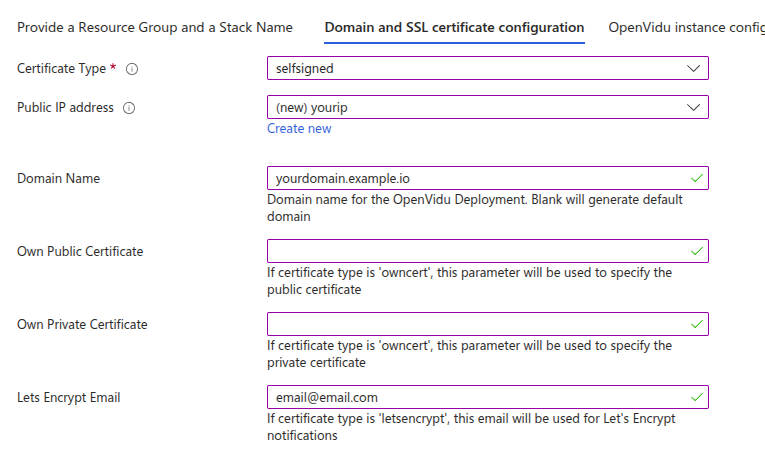
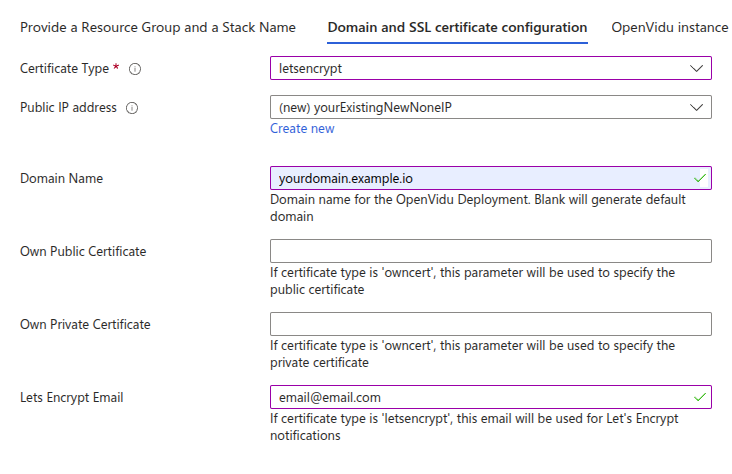
docs-azure: some changes to the azure doc to be more consistant

diff --git a/docs/docs/self-hosting/elastic/azure/install.md b/docs/docs/self-hosting/elastic/azure/install.md
@@ -6,6 +6,11 @@ description: Learn how to deploy OpenVidu Elastic on Azure using Template specs 
 # OpenVidu Elastic Installation: Azure
 
 !!! info
+
+    Azure is Expermiental in version 3.2.0 of OpenVidu
+
+
+!!! info
     
     OpenVidu Elastic is part of **OpenVidu <span class="openvidu-tag openvidu-pro-tag">PRO</span>**. Before deploying, you need to [create an OpenVidu account](/account/){:target=_blank} to get your license key.
     There's a 15-day free trial waiting for you!
@@ -31,9 +36,23 @@ To import the template into Azure you just need to click the button below and yo
     - WebRTC traffic (SRTP/SCTP/STUN/TURN) is routed directly to the Media Nodes.
     - A Scaling Set of Media Nodes is created to scale the number of Media Nodes based on the system load.
 
+We use a strategy to shut down gracefully the media nodes: 
+
+=== "Strategy used"
+
+    The instances in the scale set are protected to prevent their shutdown when they are started. That prevents them from shutting down when the shutdown event arrives but that event can be captured and a custom action executed. That custom action determines the instance that has to terminate and executes the appropriate commands in the LiveKit services to not receive any more jobs. When all jobs on the instance identified to be shutdown are finished, then it autoshutdown with a command that kills the instance.    
+
 ## Template Parameters
 
-Depending on your needs, you need to fill in the following parameters:
+Depending on your needs, you need to fill in the following parameters.
+
+!!! warning
+
+    The resource group may not be the same as a previous one, the deployment can fail if is the same, the only case you want it to be new is when using an existing IP. Fill the parameter **Stack Name** with the name you want for the stack (it will be used to create the names of the resources). Select the **Region** that you want or the region where the resource group is located (it will be autoselected).   
+
+    <figure markdown>
+    ![Azure Instance configuration](../../../../assets/images/self-hosting/shared/azure-stack-name-region.png){ .svg-img .dark-img }
+    </figure>
 
 --8<-- "shared/self-hosting/azure-ssl-domain.md"
 
@@ -67,7 +86,7 @@ You need to specify some properties for the Azure instances that will be created
     ![Azure Instance configuration](../../../../assets/images/self-hosting/elastic/azure/azure-instance-config.png){ .svg-img .dark-img }
     </figure>
 
-    Simply select the type of instance you want on the master nodes at **Master Node Instance Type** and select the type of instance you want on the media nodes at **Media Node Instance Type**, modify the username that will be the one standard in the instance at **Admin Username**, then select the SSH key you've created previously in **Admin Ssh Key**, or you can create a new one in the same drop down, to be able to make ssh to the instance.   
+    Simply select the type of instance you want on the master nodes at **Master Node Instance Type** and select the type of instance you want on the media nodes at **Media Node Instance Type**, fill in the parameter **Admin Username** that will be set as admin username in the instance, then select the SSH key you've created previously in **SSH public key source**, or you can create a new one in the same drop down, to be able to make ssh to the instance.   
  
 
 ### Media Nodes Scaling Set Configuration
@@ -88,17 +107,18 @@ The number of Media Nodes can scale up based on the system load. You can configu
 
 ### Scale In
 
-Azure has a restriction with the scale in, when it is determined that a instance is surplus, it can only wait at most 15 minutes for graceful shutdown. But that poses a problem when instance sessions can last longer. To avoid unexpectedly shutting down a instance's sessions, an indirect strategy has been implemented to get instances to not terminate until they have finished all their sessions.
+Azure has a restriction with the scale in, when it is determined that a instance is surplus, it can only wait at most 15 minutes for graceful shutdown. But that poses a problem when instance sessions can last longer. To avoid unexpectedly shutting down a instance's sessions, an indirect strategy has been implemented to get instances to not terminate until they have finished all their sessions.   
 
-=== "Strategy used"
+Due to the limitations of azure, this strategy has the disadvantage that it can take up to 5 minutes from the time a instance is detected to be shutdown until the shutdown process is gracefully initiated.
 
-    The instances in the autoscaling group are protected to prevent their shutdown when they are started. That prevents them from shutting down when the shutdown event arrives but that event can be captured and a custom action executed. That custom action determines the instance that has to terminate and executes the appropriate commands in the LiveKit services to not receive any more jobs. When all jobs on the instance identified to be shutdown are finished, then it autoshutdown with a command that kills the instance.   
-    Due to the limitations of azure, this strategy has the disadvantage that it can take up to 5 minutes from the time a instance is detected to be shutdown until the shutdown process is gracefully initiated.
+=== "Automation Account Configuration"
 
-You will need to fill the next parameter in order to be able to create the automation account that contains the runbook that is going to be executed when a scale in event comes in.   
-<figure markdown>
-![Automation account name](../../../../assets/images/self-hosting/shared/azure-aacc-scalein.png){ .svg-img .dark-img }
-</figure>
+    You will need to fill the next parameter in order to be able to create the automation account that contains the runbook that is going to be executed when a scale in event comes in.   
+    You can choose the name that you want and it will be used to create a new automation account with that name, the only restriction that the name has is being an unique name for all the automation accounts that may be in the resource group that you are deploying. Leave it blank to set an autogenerated name.   
+    This resource cannot be reused between deployments.   
+    <figure markdown>
+    ![Automation account name](../../../../assets/images/self-hosting/shared/azure-aacc-scalein.png){ .svg-img .dark-img }
+    </figure>
 
 --8<-- "shared/self-hosting/azure-storageaccount.md"
 
@@ -106,17 +126,14 @@ You will need to fill the next parameter in order to be able to create the autom
 
 ## Deploying the Stack
 
-!!! warning
-
-    Don't forget about changing the resource group where all the previous resources may be created (in case you use an existing public IP) and don't forget to fill the parameter **Stack Name** with the name you want for the stack (it will be used to create the names of the resources).
-
-When you are ready with your Template parameters, just click on _"Next"_, then it will go through some validations, and if everything is correct, click on _"Create"_, then it will start deploying and you will have to wait the time that takes to install Openvidu, it takes about 7 to 12 minutes.
+When you are ready with your Template parameters, just click on _"Next"_, then it will go through some validations, and if everything is correct, click on _"Create"_, then it will start deploying and you will have to wait the time that takes to install Openvidu, it takes about 7 to 12 minutes.   
 
 !!! warning
 
-    In case of fail, it might be that some role failed to create, in this case redeploy in a new resource group and change the **Stack Name**, if you understand more try to remove that role in the IAM section, it will be shown as Uknown role in Contributor tab if the resource is deleted.
+    In case of fail, it might be that some role failed to create, in this case redeploy in a new resource group and change the **Stack Name**. To remove a role in a resource group go to [Remove Azure role assignments](https://learn.microsoft.com/en-us/azure/role-based-access-control/role-assignments-remove)
 
-When everything is ready, you will see the following links in the Key Vault resource:   
+
+When everything is ready, you can check the output secrets on the Key Vault or by making SSH to the instance, you can find how to do it in the next steps:  
 
 === "Azure Key Vault Outputs"
 
@@ -151,7 +168,7 @@ When everything is ready, you will see the following links in the Key Vault reso
 
 ## Configure your Application to use the Deployment
 
-As we mentioned before, if you have permissions to give yourself access to the Key Vault you will be able to check there all the outputs, if you dont have them check the tab [Check outputs in the instance](#check-outputs-in-the-instance).
+As we mentioned before, if you have permissions to give yourself access to the Key Vault you will be able to check there all the outputs in the tab [Azure Key Vault Outputs](#azure-key-vault-outputs), if you dont have them check the tab [Check outputs in the instance](#check-outputs-in-the-instance).
 
 Your authentication credentials and URL to point your applications would be:
 

diff --git a/docs/docs/self-hosting/ha/azure/install.md b/docs/docs/self-hosting/ha/azure/install.md
@@ -6,6 +6,11 @@ description: Learn how to deploy OpenVidu High Availability on Azure using Templ
 # OpenVidu High Availability Installation: Azure
 
 !!! info
+
+    Azure is Expermiental in version 3.2.0 of OpenVidu
+
+
+!!! info
     
     OpenVidu High Availability is part of **OpenVidu <span class="openvidu-tag openvidu-pro-tag">PRO</span>**. Before deploying, you need to [create an OpenVidu account](/account/){:target="_blank"} to get your license key.
     There's a 15-day free trial waiting for you!
@@ -46,9 +51,24 @@ This is how the architecture of the deployment looks like:
     - 4 fixed Virtual Machine Instances are created for the Master Nodes. It must always be 4 Master Nodes to ensure high availability.
     - An Scaling Set of Media Nodes is created to scale the number of Media Nodes based on the system load.
 
+
+We use a strategy to shut down gracefully the media nodes: 
+
+=== "Strategy used"
+
+    The instances in the scale set are protected to prevent their shutdown when they are started. That prevents them from shutting down when the shutdown event arrives but that event can be captured and a custom action executed. That custom action determines the instance that has to terminate and executes the appropriate commands in the LiveKit services to not receive any more jobs. When all jobs on the instance identified to be shutdown are finished, then it autoshutdown with a command that kills the instance.    
+
 ## Template Parameters
 
-Depending on your needs, you need to fill the following parameters:
+Depending on your needs, you need to fill the following parameters.
+
+!!! warning
+
+    The resource group may not be the same as a previous one, the deployment can fail if is the same, the only case you want it to be new is when using an existing IP. Fill the parameter **Stack Name** with the name you want for the stack (it will be used to create the names of the resources). Select the **Region** that you want or the region where the resource group is located (it will be autoselected).   
+
+    <figure markdown>
+    ![Azure Instance configuration](../../../../assets/images/self-hosting/shared/azure-stack-name-region.png){ .svg-img .dark-img }
+    </figure>
 
 --8<-- "shared/self-hosting/azure-ssl-domain.md"
 
@@ -82,7 +102,7 @@ You need to specify some properties for the Azure instances that will be created
     ![Azure Instance configuration](../../../../assets/images/self-hosting/ha/azure/azure-instance-config.png){ .svg-img .dark-img }
     </figure>
 
-    Simply select the type of instance you want on the master nodes at **Master Node Instance Type** and select the type of instance you want on the media nodes at **Media Node Instance Type**, modify the username that will be the one standard in the instance at **Admin Username**, then select the SSH key you've created previously in **Admin Ssh Key**, or you can create a new one in the same drop down, to be able to make ssh to the instance.   
+    Simply select the type of instance you want on the master nodes at **Master Node Instance Type** and select the type of instance you want on the media nodes at **Media Node Instance Type**, fill in the parameter **Admin Username** that will be set as admin username in the instance, then select the SSH key you've created previously in **SSH public key source**, or you can create a new one in the same drop down, to be able to make ssh to the instance.   
 
 ### Media Nodes Scaling Set Configuration
 
@@ -104,15 +124,16 @@ The number of Media Nodes can scale up based on the system load. You can configu
 
 Azure has a restriction with the scale in, when it is determined that a instance is surplus, it can only wait at most 15 minutes for graceful shutdown. But that poses a problem when instance sessions can last longer. To avoid unexpectedly shutting down a instance's sessions, an indirect strategy has been implemented to get instances to not terminate until they have finished all their sessions.
 
-=== "Strategy used"
+Due to the limitations of azure, this strategy has the disadvantage that it can take up to 5 minutes from the time a instance is detected to be shutdown until the shutdown process is gracefully initiated.
 
-    The instances in the autoscaling group are protected to prevent their shutdown when they are started. That prevents them from shutting down when the shutdown event arrives but that event can be captured and a custom action executed. That custom action determines the instance that has to terminate and executes the appropriate commands in the LiveKit services to not receive any more jobs. When all jobs on the instance identified to be shutdown are finished, then it autoshutdown with a command that kills the instance.   
-    Due to the limitations of azure, this strategy has the disadvantage that it can take up to 5 minutes from the time a instance is detected to be shutdown until the shutdown process is gracefully initiated.
+=== "Automation Account Configuration"
 
-You will need to fill the next parameter in order to be able to create the automation account that contains the runbook that is going to be executed when a scale in event comes in.   
-<figure markdown>
-![Automation account name](../../../../assets/images/self-hosting/shared/azure-aacc-scalein.png){ .svg-img .dark-img }
-</figure>
+    You will need to fill the next parameter in order to be able to create the automation account that contains the runbook that is going to be executed when a scale in event comes in.   
+    You can choose the name that you want and it will be used to create a new automation account with that name, the only restriction that the name has is being an unique name for all the automation accounts that may be in the resource group that you are deploying. Leave it blank to set an autogenerated name.   
+    This resource cannot be reused between deployments.   
+    <figure markdown>
+    ![Automation account name](../../../../assets/images/self-hosting/shared/azure-aacc-scalein.png){ .svg-img .dark-img }
+    </figure>
 
 --8<-- "shared/self-hosting/azure-storageaccount.md"
 
@@ -132,18 +153,14 @@ This section is optional. It is useful when your users are behind a restrictive 
 
 ## Deploying the Stack
 
-!!! warning
-
-    Don't forget about changing the resource group where all the previous resources may be created (in case you use an existing public IP) and don't forget to fill the parameter **Stack Name** with the name you want for the stack (it will be used to create the names of the resources).
-
 When you are ready with your Template parameters, just click on _"Next"_, then it will go through some validations, and if everything is correct, click on _"Create"_, then it will start deploying and you will have to wait the time that takes to install Openvidu, it takes about 10 to 15 minutes.
 
 !!! warning
 
-    In case of fail, it might be that some role failed to create, in this case redeploy in a new resource group and change the **Stack Name**, if you understand more try to remove that role in the IAM section, it will be shown as Uknown role in Contributor tab if the resource is deleted.   
-    In case that the error is something about conflict in the creation of a network interface just redeploy in another resource group with another **Stack Name**, this happens rarely
+    In case of fail, it might be that some role failed to create, in this case redeploy in a new resource group and change the **Stack Name**. To remove a role in a resource group go to [Remove Azure role assignments](https://learn.microsoft.com/en-us/azure/role-based-access-control/role-assignments-remove).  
+    In case that the error is something about conflict in the creation of a network interface just redeploy in another resource group with another **Stack Name**, this happens rarely.
 
-When everything is ready, you will see the following links in the Key Vault resource:   
+When everything is ready, you can check the output secrets on the Key Vault or by making SSH to the instance, you can find how to do it in the next steps:  
 
 === "Azure Key Vault Outputs"
 

diff --git a/docs/docs/self-hosting/single-node/azure/install.md b/docs/docs/self-hosting/single-node/azure/install.md
@@ -5,6 +5,10 @@ description: Learn how to deploy OpenVidu Single Node on Azure using Template sp
 
 # OpenVidu Single Node Installation: Azure
 
+!!! info
+
+    Azure is Expermiental in version 3.2.0 of OpenVidu
+
 --8<-- "shared/self-hosting/single-node/v2compat-warning.md"
 
 This section contains the instructions to deploy a production-ready OpenVidu Single Node deployment in Azure. Deployed services are the same as the [On Premises Single Node Installation](../on-premises/install.md) but they will be resources in Azure and you can automate the process with the Template Spec of ARM.
@@ -25,7 +29,15 @@ To import the template into Azure you just need to click the button below and yo
 
 ## Template Parameters
 
-To be able to deploy the template you need to fill the following parameters
+To be able to deploy the template you need to fill the following parameters.
+
+!!! warning
+
+    The resource group may not be the same as a previous one, the deployment can fail if is the same. Fill the parameter **Stack Name** with the name you want for the stack (it will be used to create the names of the resources). Select the **Region** that you want or the region where the resource group is located (it will be autoselected).   
+
+    <figure markdown>
+    ![Azure Instance configuration](../../../../assets/images/self-hosting/shared/azure-stack-name-region.png){ .svg-img .dark-img }
+    </figure>
 
 --8<-- "shared/self-hosting/azure-ssl-domain.md"
 
@@ -41,7 +53,7 @@ You need to specify some properties for the Azure instance that will be created 
     ![Azure Instance configuration](../../../../assets/images/self-hosting/single-node/azure/azure-instance-config.png){ .svg-img .dark-img }
     </figure>
 
-    Simply select the type of instance you want to deploy at **Instance Type**, modify the username that will be the one standard in the instance at **Admin Username**, then select the SSH key you've created previously in **Admin Ssh Key**, or you can create a new one in the same drop down, to be able to make ssh to the instance.   
+    Simply select the type of instance you want to deploy at **Type of Instance**, fill in the parameter **Admin Username** that will be set as admin username in the instance, then select the SSH key you've created previously in **SSH public key source**, or you can create a new one in the same drop down, to be able to make ssh to the instance.   
 
 --8<-- "shared/self-hosting/azure-storageaccount.md"
 
@@ -49,17 +61,13 @@ You need to specify some properties for the Azure instance that will be created 
 
 ## Deploying the Stack
 
-!!! warning
-
-    Don't forget about changing the resource group where all the previous resources may be created, this is needed because some roles creation can fail if there was an existing role for the instance and it is named the same again, and don't forget to fill the parameter **Stack Name** with the name you want for the stack (it will be used to create the names of the resources).
-
 When you are ready with your Template parameters, just click on _"Next"_, then it will go through some validations, and if everything is correct, click on _"Create"_, then it will start deploying and you will have to wait the time that takes to install Openvidu, it takes about 5 to 10 minutes.
 
 !!! warning
 
-    In case of fail, it might be that some role failed to create, in this case redeploy in a new resource group and change the **Stack Name**, if you understand more try to remove that role in the IAM section, it will be shown as Uknown role in Contributor tab if the resource is deleted.
+    In case of fail, it might be that some role failed to create, in this case redeploy in a new resource group and change the **Stack Name**. To remove a role in a resource group go to [Remove Azure role assignments](https://learn.microsoft.com/en-us/azure/role-based-access-control/role-assignments-remove)
 
-When everything is ready, you will see the following links in the Key Vault resource:   
+When everything is ready, you can check the output secrets on the Key Vault or by making SSH to the instance, you can find how to do it in the next steps:  
 
 === "Azure Key Vault Outputs"
 
@@ -95,7 +103,7 @@ When everything is ready, you will see the following links in the Key Vault reso
 
 ## Configure your Application to use the Deployment 
 
-As we mentioned before, if you have permissions to give yourself access to the Key Vault you will be able to check there all the outputs, if you dont have them check the tab [Check outputs in the instance](#check-outputs-in-the-instance).
+As we mentioned before, if you have permissions to give yourself access to the Key Vault you will be able to check there all the outputs in the tab [Azure Key Vault Outputs](#azure-key-vault-outputs), if you dont have them check the tab [Check outputs in the instance](#check-outputs-in-the-instance).
 
 Your authentication credentials and URL to point your applications would be:
 

diff --git a/shared/self-hosting/azure-ssl-domain.md b/shared/self-hosting/azure-ssl-domain.md
@@ -15,22 +15,7 @@ These are the three possible scenarios you may have to configure in this section
     ![Let's Encrypt certificates](../../../../assets/images/self-hosting/shared/azure-letsencrypt.png){ .svg-img .dark-img }
     </figure>
 
-    As you can see, you need to specify the **Domain Name** with your FQDN, the **Public Ip Address** with the Public IP that the domain points to, and the **Lets Encrypt Email** with your email address for Let’s Encrypt notifications. These parameters are mandatory.
-
-
-=== "Self-Signed Certificate"
-
-    This is the most straightforward option for deploying OpenVidu on Azure when you do not have a Fully Qualified Domain Name (FQDN). This method allows for the immediate use of OpenVidu with ARM Templates.
-
-    However, this convenience comes with the caveat that users will need to manually accept the certificate in their web browsers. Please be aware that this configuration is solely for developmental and testing purposes and is not suitable for a production environment.
-
-    These are the parameters needed in this section to use self-signed certificates:
-    
-    <figure markdown>
-    ![Self-signed certificates](../../../../assets/images/self-hosting/shared/azure-selfsigned.png){ .svg-img .dark-img }
-    </figure>
-    
-    You don’t need to specify any parameters; just select the **CertificateType** as _self-signed_. The domain name used will be an Azure-generated one and you will be able to check it later.
+    As you can see, you need to specify the **Public Ip Address** with the Public IP that the domain points to, the **Domain Name** with your FQDN, and the **Lets Encrypt Email** with your email address for Let’s Encrypt notifications. These parameters are mandatory.
 
 === "Custom Certificates"
 
@@ -50,3 +35,17 @@ These are the three possible scenarios you may have to configure in this section
     You need to specify at **Own Public Certificate** and **Own Private Certificate** the URLs where the public and private certificates are hosted, respectively. The **Domain Name**, **Public Ip Address** are mandatory parameters.
 
     Certificates need to be in PEM format and the URLs must be accessible from the instance.
+
+=== "Self-Signed Certificate"
+
+    This is the most straightforward option for deploying OpenVidu on Azure when you do not have a Fully Qualified Domain Name (FQDN). This method allows for the immediate use of OpenVidu with ARM Templates.
+
+    However, this convenience comes with the caveat that users will need to manually accept the certificate in their web browsers. Please be aware that this configuration is solely for developmental and testing purposes and is not suitable for a production environment.
+
+    These are the parameters needed in this section to use self-signed certificates:
+    
+    <figure markdown>
+    ![Self-signed certificates](../../../../assets/images/self-hosting/shared/azure-selfsigned.png){ .svg-img .dark-img }
+    </figure>
+    
+    You don’t need to specify any parameters; just select the **CertificateType** as _self-signed_. The domain name used will be an Azure-generated one and you will be able to check it later.

diff --git a/shared/self-hosting/azure-storageaccount.md b/shared/self-hosting/azure-storageaccount.md
@@ -2,6 +2,10 @@
 
 You need to fill some parameters about the storage account that the deployment will use to save the recordings.
 
+!!! warning
+
+    Recordings are not available in OpenVidu 2.0 Compatibility mode (v2compat) in OpenVidu 3.2.0 deployed in Azure.
+
 === "Azure Storage Account configuration"
     
     The parameters in this section may look like this:
@@ -10,5 +14,6 @@ You need to fill some parameters about the storage account that the deployment w
     ![Azure Instance configuration](../../../../assets/images/self-hosting/shared/azure-storageaccount.png){ .svg-img .dark-img }
     </figure>
 
-    **Storage Account Name** is used when upgrading OpenVidu version you want to save the recordings of the last deployment that you have used, it corresponds to the name of the storage account resource that was on the last OpenVidu deployment, leave it blank if you are not upgrading the version of OpenVidu.   
+    **Storage Account Name**, leave blank so a new Storage Account is created for this deployment. Specify an existing account name if this new desployment has to point to the storage account created in a previous deployment (to be able to access to existing recordings), remember it has to exists in the same resource group you are deploying.
+
     **Container Name** is the name that you desire for the container that of the storage account where the recordings will be saved, if you leave it blank it will create the container with the name openvidu-appdata.
